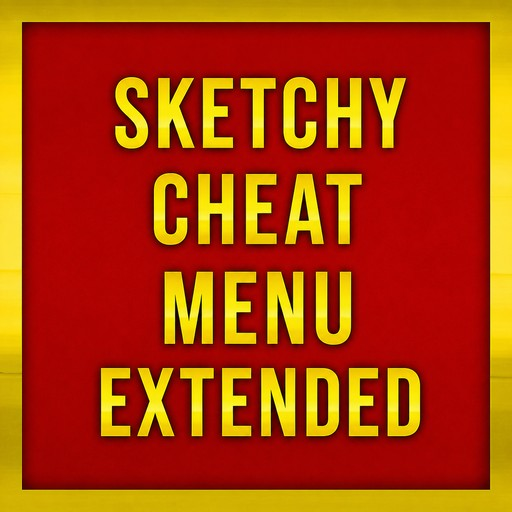
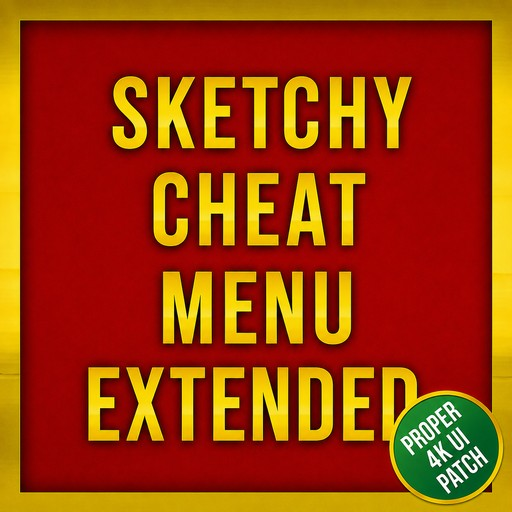
v0.14.6 - Ruler Designer sub-mod and cheat-trait selection
Optional sub-mod makes the Ruler Designer effectively free. The
5 custom cheat traits are now selectable in the designer.

Changed region(s): [[0.0, 0.0, 1.0, 1.0], [0.1875, 0.125, 0.8125, 0.5]]

diff --git a/CHANGELOG.md b/CHANGELOG.md
@@ -6,6 +6,17 @@ The format is based on [Keep a Changelog](https://keepachangelog.com/en/1.1.0/),
 
 ## [Unreleased]
 
+## [0.14.6] - 2026-07-07
+
+### Added
+- **Ruler Designer sub-mod** — optional `SketchyCheatMenuExtendedRulerDesigner` that zeroes the `NRulerDesigner` cost defines.
+- **Sub-mod thumbnails.**
+- **Inner `descriptor.mod`** for Debug and Proper4KUI Patch sub-mods.
+- **README Sub-mods section** — consolidates Proper4KUI Patch, Ruler Designer, and Debug install info under Installation.
+
+### Changed
+- **5 SCME-custom cheat traits** (Master Commander, Master Builder, Master Landowner, Master Plotter, Beloved) — now selectable in the Ruler Designer.
+
 ## [0.14.5] - 2026-07-07
 
 ### Added

diff --git a/README.md b/README.md
@@ -277,7 +277,13 @@ Documents/Paradox Interactive/Crusader Kings II/mod/
 
 …then enable **Sketchy Cheat Menu Extended** in the launcher.
 
-**Proper4KUI users:** also install the **Sketchy Cheat Menu Extended - Proper4KUI Patch** companion sub-mod for hi-res versions of the decision icon and the 5 SCME-custom cheat trait icons, sized to match Proper4KUI's larger UI. Vanilla players don't need it.
+### Sub-mods
+
+Three optional companion sub-mods ship alongside the base mod. Install each the same way as the base mod: drop the folder and `.mod` file into `mod/`, then enable in the launcher.
+
+- **Sketchy Cheat Menu Extended - Proper4KUI Patch** — hi-res versions of the decision icon and the 5 SCME-custom cheat trait icons, sized to match Proper4KUI's larger UI.
+- **Sketchy Cheat Menu Extended - Ruler Designer** — makes the Ruler Designer effectively free. Pick any attributes, starting conditions, and most traits without spending points. A handful of traits (some Lifestyles, Poet, Falconer, Stutter) keep their vanilla point cost.
+- **Sketchy Cheat Menu Extended - Debug** — console `SCMED.*` events for reaching hard-to-test states like the dynasty 777777 "Outcast" label and Holy Fury bloodlines.
 
 ## Compatibility
 
@@ -329,7 +335,7 @@ CK2's static parser validates every trait ID in a trigger context — both `scri
 
 ### Dev/test events
 
-Hard-to-reach paths (e.g., verifying the dynasty 777777 "Outcast" label, granting Holy Fury bloodlines for `upgrade_X` testing) have console-grant helpers in a sibling sub-mod, **Sketchy Cheat Menu Extended - Debug**. Enable it in the launcher alongside SCME to use the `SCMED.*` events — e.g. `event SCMED.1 <charID>` assigns the target to dynasty 777777; `event SCMED.2`–`SCMED.5 <charID>` grant the 4 Holy Fury building-related bloodlines. The base mod doesn't ship these events.
+The **Sketchy Cheat Menu Extended - Debug** sub-mod (see [Sub-mods](#sub-mods)) ships `SCMED.*` console events for hard-to-reach paths. `event SCMED.1 <charID>` assigns the target to dynasty 777777. `event SCMED.2` through `SCMED.5` grant the 4 Holy Fury building-related bloodlines.
 
 ## Development
 